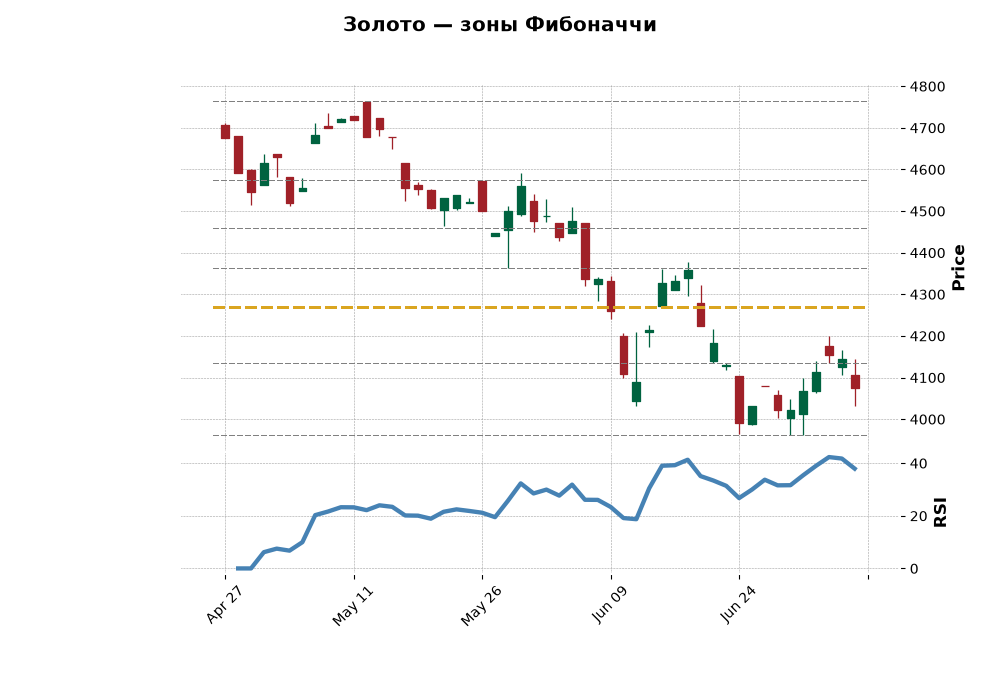
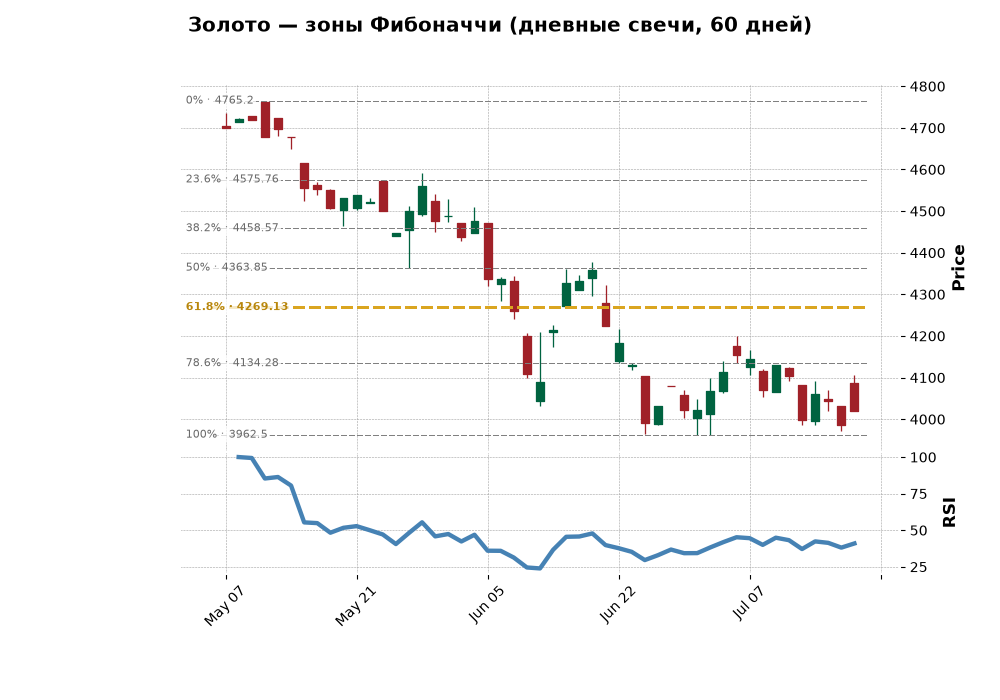
README: навигация, оформление, свежий пример графика с подписями уровней

diff --git a/README.md b/README.md
@@ -1,6 +1,8 @@
 # Бот металлов — зоны Фибоначчи
 
-Telegram-бот: свечные графики золота, серебра, меди, алюминия и нефти Brent с уровнями коррекции Фибоначчи и RSI(14). По кнопке или ежедневным дайджестом присылает PNG-график и текстовую сводку уровней с пометкой ближайшего и «в зоне» (цена ближе 1% к уровню). Копит собственную статистику: как цена вела себя после каждого сигнала (`/stats`).
+Telegram-бот: свечные графики золота, серебра, меди, алюминия и нефти Brent (дневные свечи, 60 дней) с уровнями коррекции Фибоначчи и RSI(14). По кнопке или ежедневным дайджестом присылает PNG-график — каждый уровень подписан прямо на линии — и аккуратную сводку уровней с пометкой ближайшего и «в зоне» (цена ближе 1% к уровню). Копит собственную статистику: как цена вела себя после каждого сигнала (`/stats`).
+
+Навигация: постоянная клавиатура внизу (Графики / Статистика / Помощь), кнопки «График» и «Меню» под каждым алертом, справка по разделам (уровни Фибоначчи, как читать статистику, как пользоваться ботом). На любое текстовое сообщение бот отвечает навигацией, команды /start и /stats зарегистрированы в системном меню Telegram.
 
 Не финансовый совет — сырые уровни цены, решение принимает человек. Полный доступ — у админов (`ADMIN_IDS`) и подписчиков: оплата через Telegram Stars (`STARS_PRICE` за `SUB_DAYS` дней, платёжный провайдер не нужен).
 